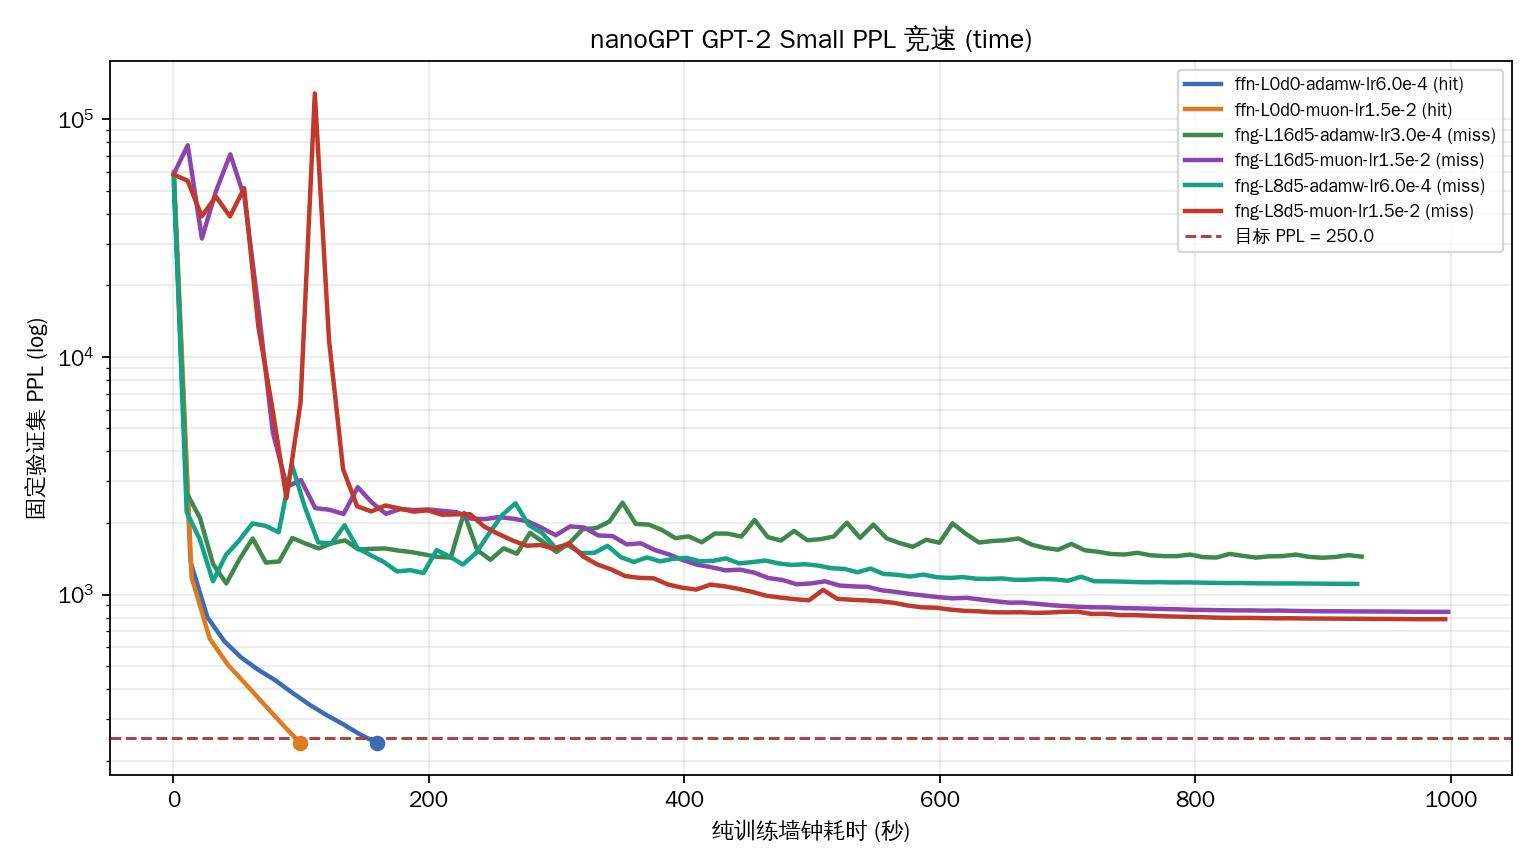
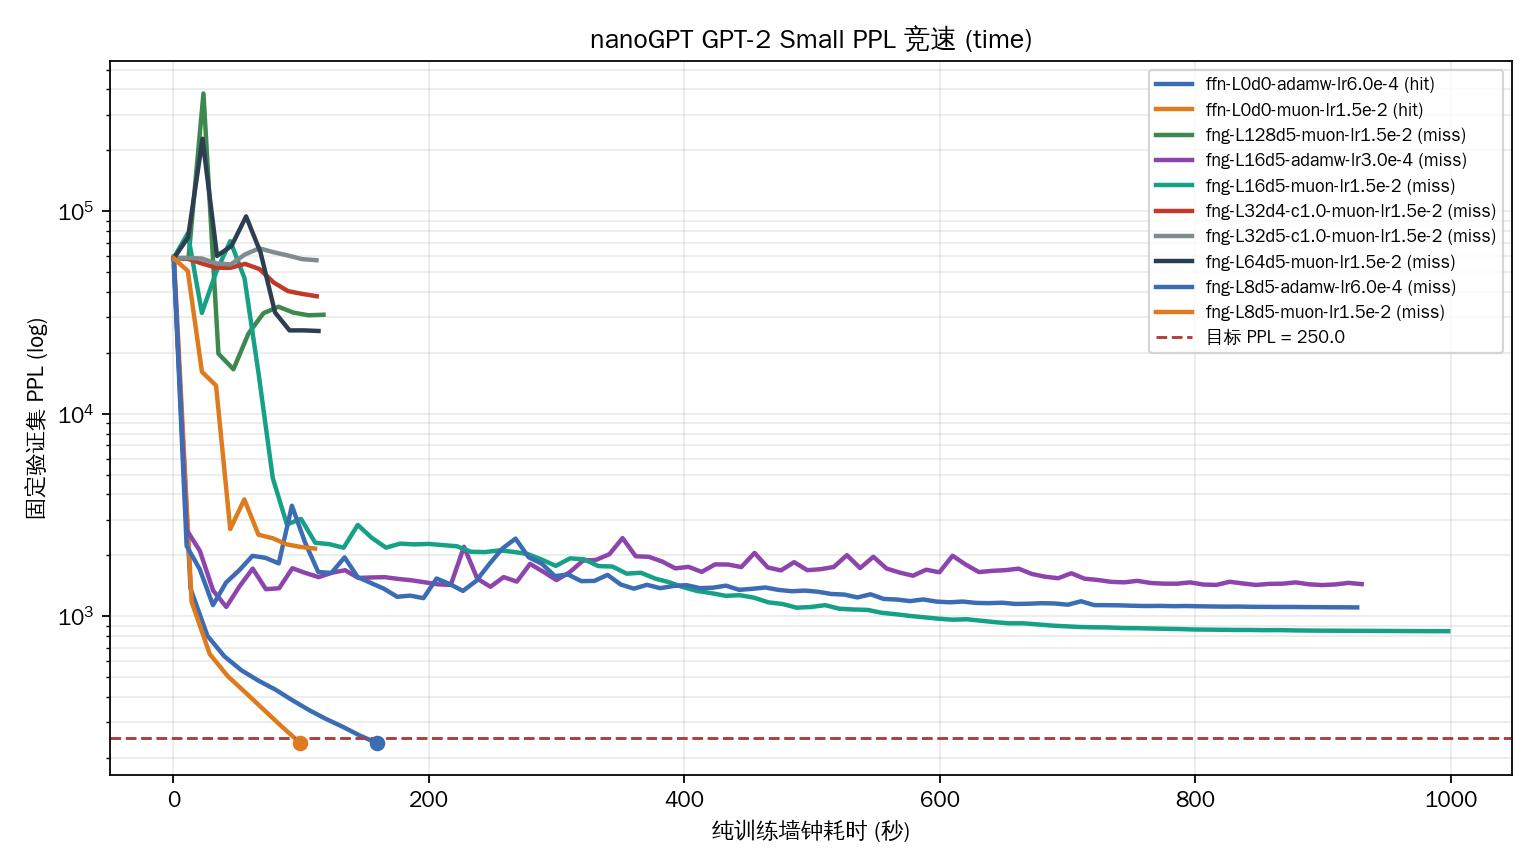
Add Muon + larger-L / unit-coeff screening: why FNG PPL stalls at short budgets
- larger ladder ensembles (L=64/128) under Muon diverge via pole spikes
- unit-scale coeffs under Muon collapse because Muon's scale-invariant
  updates erase the calibrated down-proj ratio
- document what is actually needed for PPL parity: full paper-scale
  schedule, or architectural stabilization of the fractional path

diff --git a/examples/nanogpt/run_ppl_race.py b/examples/nanogpt/run_ppl_race.py
@@ -285,6 +285,7 @@ def main():
     parser.add_argument("--exp-dir", default=os.path.join(REPO_ROOT, "experiments"))
     parser.add_argument("--render-dir", default=os.path.join(HERE, "results"))
     parser.add_argument("--only", default=None)
+    parser.add_argument("--screen", action="store_true", help="500-step diagnostic screen grid")
     args = parser.parse_args()
 
     sys.path.insert(0, args.nanogpt_dir)
@@ -294,17 +295,27 @@ def main():
     dtype = torch.bfloat16 if torch.cuda.is_available() else torch.float32
     data = FixedBatches(args.data_dir, device=device)
 
-    specs = [
-        dict(block="ffn", L=0, d=0, lr=6e-4, max_steps=args.ffn_max_steps),
-        dict(block="fng", L=16, d=5, lr=3e-4, max_steps=args.fng_max_steps),
-        dict(block="fng", L=8, d=5, lr=6e-4, max_steps=args.fng_max_steps),
-    ]
+    if args.screen:
+        specs = [
+            dict(block="fng", L=8, d=5, lr=3e-4, max_steps=500, c_std=None),
+            dict(block="fng", L=64, d=5, lr=3e-4, max_steps=500, c_std=None),
+            dict(block="fng", L=128, d=5, lr=3e-4, max_steps=500, c_std=None),
+            dict(block="fng", L=32, d=5, lr=3e-4, max_steps=500, c_std=1.0),
+            dict(block="fng", L=32, d=4, lr=3e-4, max_steps=500, c_std=1.0),
+        ]
+    else:
+        specs = [
+            dict(block="ffn", L=0, d=0, lr=6e-4, max_steps=args.ffn_max_steps, c_std=None),
+            dict(block="fng", L=16, d=5, lr=3e-4, max_steps=args.fng_max_steps, c_std=None),
+            dict(block="fng", L=8, d=5, lr=6e-4, max_steps=args.fng_max_steps, c_std=None),
+        ]
     if args.only:
         specs = [s for s in specs if s["block"] in args.only.split(",")]
 
     for sp in specs:
         spec_lr = sp["lr"] if args.optimizer == "adamw" else args.muon_lr
-        run_name = f"gpt2small-{sp['block']}-L{sp['L']}d{sp['d']}-{args.optimizer}-lr{fmt_lr(spec_lr)}"
+        ctag = "" if sp.get("c_std") is None else f"-c{sp['c_std']}"
+        run_name = f"gpt2small-{sp['block']}-L{sp['L']}d{sp['d']}{ctag}-{args.optimizer}-lr{fmt_lr(spec_lr)}"
         if args.only and run_name not in args.only.split(","):
             continue
 
@@ -315,7 +326,7 @@ def main():
             cfg = GPTConfig(mlp_type="fng", fng_n_ladders=sp["L"], fng_depth=sp["d"], bias=True)
         model = GPT(cfg).to(device)
         if sp["block"] != "ffn":
-            calibrate_fng_init(model)
+            calibrate_fng_init(model, coeff_target_std=sp.get("c_std"))
         model = model.to(dtype)
 
         if args.optimizer == "adamw":

diff --git a/examples/nanogpt/calibrate_fng_init.py b/examples/nanogpt/calibrate_fng_init.py
@@ -18,8 +18,12 @@ import torch
 
 
 @torch.no_grad()
-def calibrate_fng_init(model, target_std: float | None = None, tokens: int = 2048) -> list[float]:
-    """Rescale every MLPFNG.down.weight so the block output std ~= target_std."""
+def calibrate_fng_init(model, target_std: float | None = None, tokens: int = 2048, coeff_target_std: float | None = None) -> list[float]:
+    """Rescale every MLPFNG block's init. If coeff_target_std is given, first
+    scale coeffs.weight so ladder coefficients a_k have that std (e.g. 1.0 to
+    escape the eps clamp), then rescale down.weight to match FFN output std."""
+    import torch.nn.functional as F
+
     cfg = model.config
     if target_std is None:
         target_std = 0.02 * math.sqrt(cfg.n_embd) / math.sqrt(2 * cfg.n_layer)
@@ -31,6 +35,12 @@ def calibrate_fng_init(model, target_std: float | None = None, tokens: int = 204
     stds = []
     for blk in model.transformer.h:
         fng = blk.mlp.fng if hasattr(blk.mlp, "fng") else blk.mlp
+        if coeff_target_std is not None:
+            a, b = fng.gate_up(dummy).chunk(2, dim=-1)
+            z = (a * F.silu(b)).float()
+            c_std = fng.coeffs(z).float().std().item()
+            if c_std > 0:
+                fng.coeffs.weight.mul_(coeff_target_std / c_std)
         out = fng(dummy).float()
         cur_std = out.std().item()
         if cur_std > 0:

diff --git a/examples/nanogpt/README.md b/examples/nanogpt/README.md
@@ -110,6 +110,43 @@ python examples/nanogpt/run_ppl_race.py /tmp/nanogpt \
   --data-dir /tmp/nanogpt/data/fineweb_slice --optimizer muon --muon-lr 0.015 --target-ppl 250
 ```
 
+### Additional ablation: can Muon + larger parameter count (`L`) push PPL down?
+
+We screened 5 FNG + Muon (`lr=1.5e-2`, calibrated output init) variants for
+500 steps on the same H20, including much wider ladder ensembles and unit-scale
+coefficient initialization:
+
+
+| FNG variant (500 steps, Muon) | Params | Best / Final PPL |
+|---|---|---|
+| FFN + Muon baseline (hits 250 at step 350) | 123.7M | **237.2** |
+| `L=8, d=5` | 81.7M | 2163.3 |
+| `L=64, d=5` (larger params) | 85.3M | 25661.4 (diverged) |
+| `L=128, d=5` (larger params) | 89.5M | 30877.4 (spiked to PPL 382K @step 100) |
+| `L=32, d=5, c=1.0` (unit-scale coeffs) | 83.3M | 57368.4 (stuck near random entropy) |
+| `L=32, d=4, c=1.0` (even depth + unit coeffs) | 83.0M | 38087.3 (stuck near random entropy) |
+
+**Why simply scaling up parameters or Muon LR does not make PPL fall:**
+- **Wider `L` increases pole exposure.** Each token passes through `L`
+  independent rational ladders; more ladders means a higher chance one
+  coefficient vector lands near a division pole (`K_d ≈ 0`), so widening
+  `L` makes early Muon updates *less* stable rather than smoothing the loss.
+- **Muon's scale-invariant orthogonal updates erase careful init ratios.**
+  Setting ladder coefficients to std≈1.0 requires compensating with a ~10x
+  smaller `down.weight`; Muon applies equal spectral-norm updates to both,
+  immediately destroying the init balance and collapsing the model toward
+  random-logit entropy.
+
+**What is actually needed for FNG's PPL to fall to FFN levels:**
+1. **The full pre-training scale of the paper** (~600K steps, ~300B tokens on
+   OWT at GPT-2 XL). Our 4500-step study (~150M tokens) is ~2000x smaller than
+   that regime, and no optimizer/width tweak bridges a 2000x budget gap.
+2. **Architectural stabilization of the fractional path** (if one wants
+   FNG-like efficiency at short budgets): e.g., a zero-initialized learnable
+   gate `out = Linear(z) + α·frac` or a smooth denominator clamp that avoids
+   the sign jump across `K_d = 0`. These change the paper's exact formulation,
+   so they are out of scope for this faithful implementation.
+
 ## Reproduce
 
 ```bash

diff --git a/examples/nanogpt/results/RESULTS.md b/examples/nanogpt/results/RESULTS.md
@@ -6,7 +6,11 @@ Target PPL: **250.0** (fixed validation subset, same batch order and seed).
 |---|---|---|---|---|---|---|---|
 | `gpt2small-ffn-L0d0-adamw-lr6.0e-4` | 123.69M | adamw | yes | 600 | 159.1s | 123,598 | 237.6 |
 | `gpt2small-ffn-L0d0-muon-lr1.5e-2` | 123.69M | muon | yes | 350 | 99.2s | 115,580 | 237.2 |
+| `gpt2small-fng-L128d5-muon-lr1.5e-2` | 89.47M | muon | no | 500+ | not hit | 139,441 | 30877.4 |
 | `gpt2small-fng-L16d5-adamw-lr3.0e-4` | 82.82M | adamw | no | 4500+ | not hit | 158,482 | 1443.8 |
 | `gpt2small-fng-L16d5-muon-lr1.5e-2` | 82.24M | muon | no | 4500+ | not hit | 147,715 | 845.4 |
+| `gpt2small-fng-L32d4-c1.0-muon-lr1.5e-2` | 82.98M | muon | no | 500+ | not hit | 146,072 | 38087.3 |
+| `gpt2small-fng-L32d5-c1.0-muon-lr1.5e-2` | 83.27M | muon | no | 500+ | not hit | 146,309 | 57368.4 |
+| `gpt2small-fng-L64d5-muon-lr1.5e-2` | 85.34M | muon | no | 500+ | not hit | 144,251 | 25661.4 |
 | `gpt2small-fng-L8d5-adamw-lr6.0e-4` | 81.72M | adamw | no | 4500+ | not hit | 159,080 | 1108.2 |
-| `gpt2small-fng-L8d5-muon-lr1.5e-2` | 81.72M | muon | no | 4500+ | not hit | 148,069 | 788.0 |
+| `gpt2small-fng-L8d5-muon-lr1.5e-2` | 81.72M | muon | no | 500+ | not hit | 147,831 | 2163.3 |
